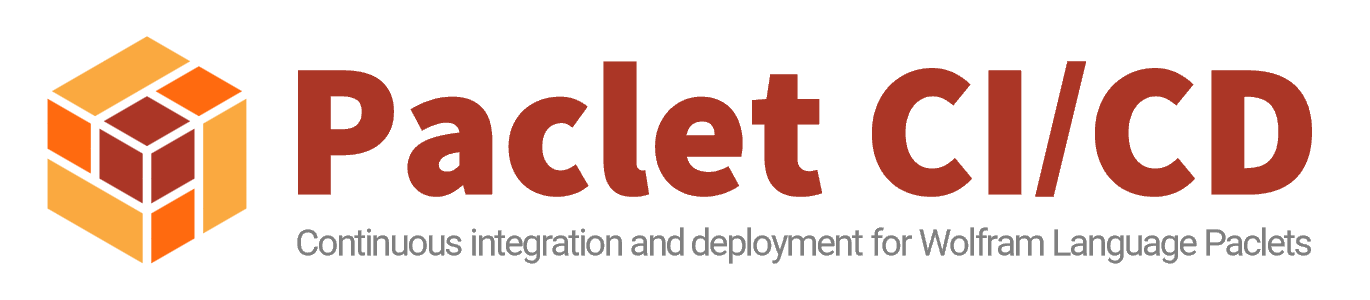
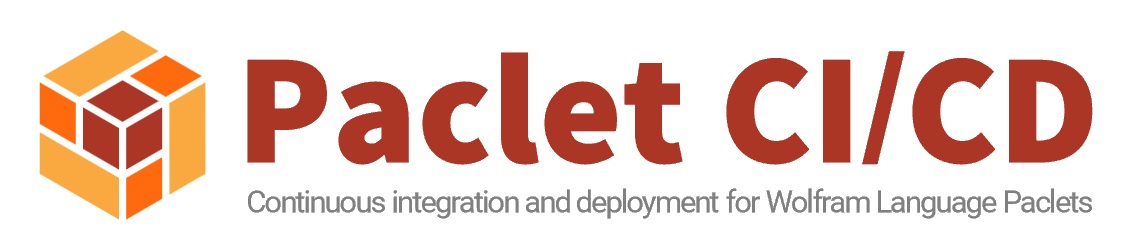
Smaller

diff --git a/README.md b/README.md
@@ -1,4 +1,4 @@
-<img src="Images/Banner.png" alt="Continuous integration and deployment for Wolfram Language Paclets" height="150px">
+<img src="Images/Banner.png" alt="Continuous integration and deployment for Wolfram Language Paclets">
 
 ********************************************************************************
 
